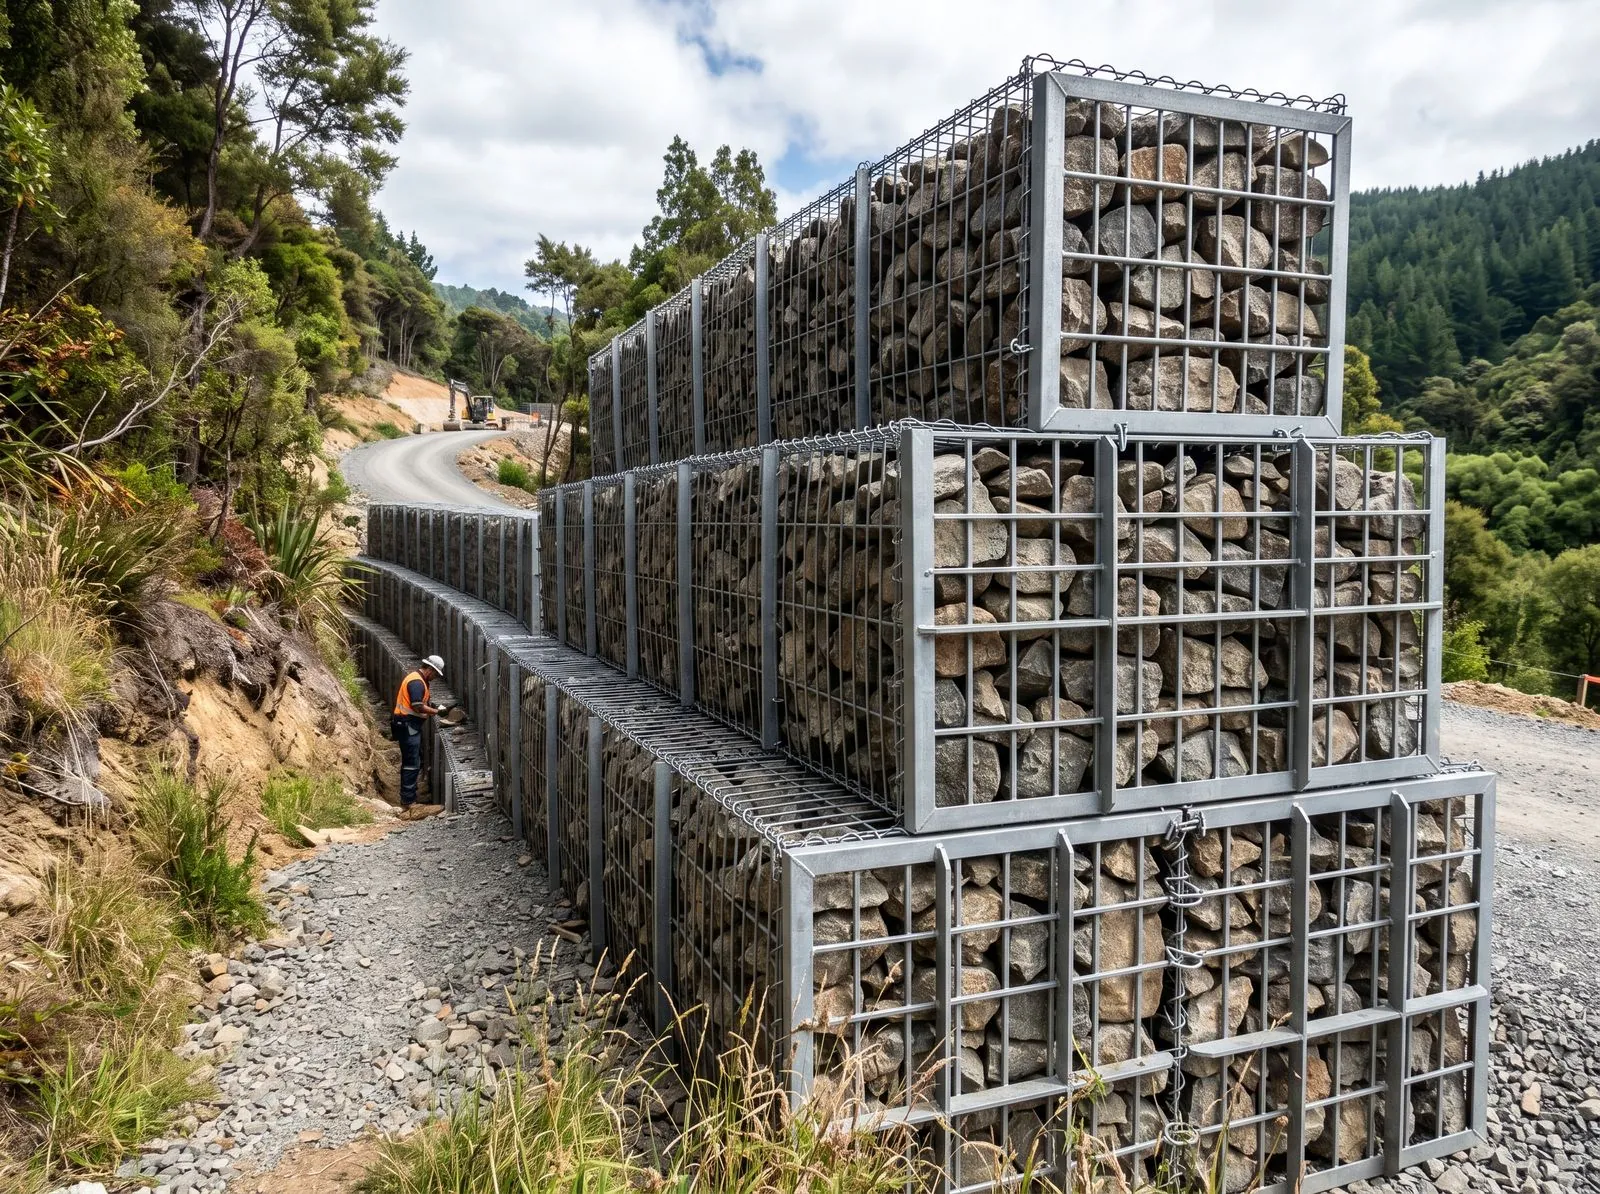
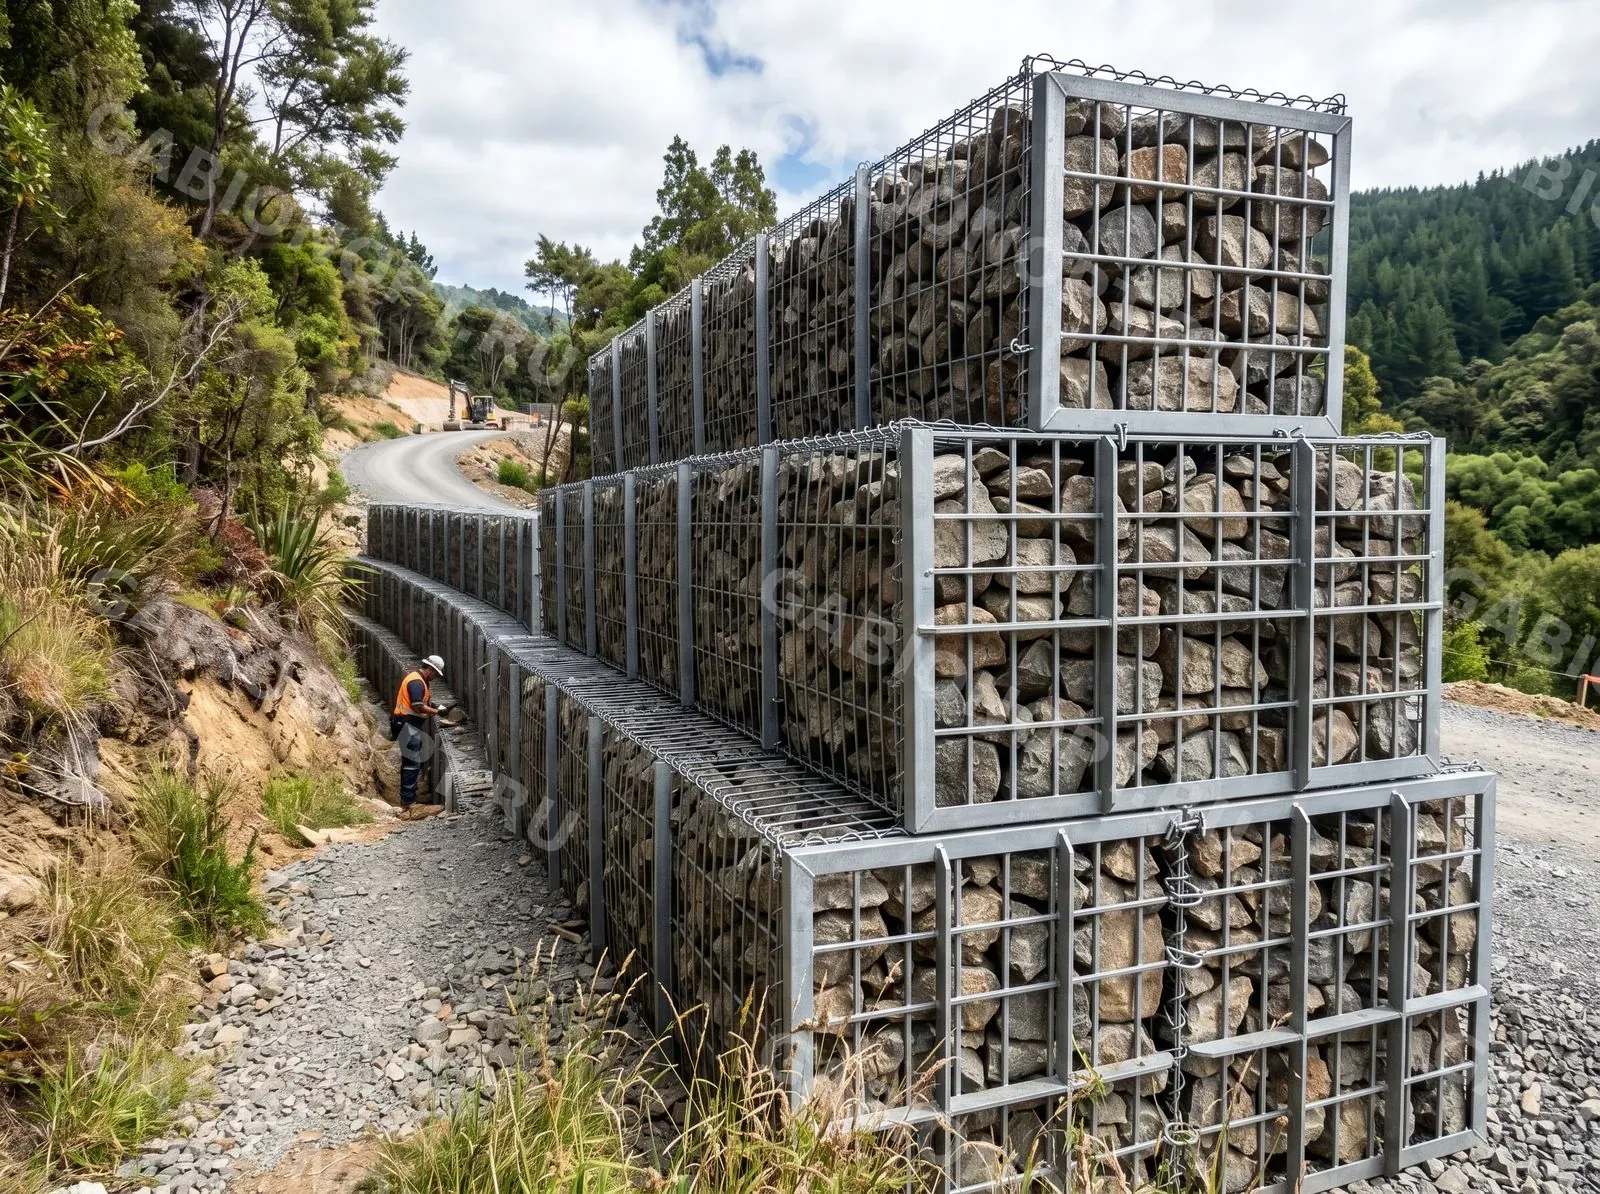
Add GABIONOPT.RU watermark to catalog reference photos, fix missing GOST badge on trosy PDP

diff --git a/assets/catalog.js b/assets/catalog.js
@@ -467,9 +467,9 @@
     "matrasno-tyufyachnye": { src: "images/gabion-matrasno-tyufyachnye.webp", alt: "Матрацно-тюфячный габион — пустой каркас" }
   };
   var SETKA_REF_PHOTOS = {
-    "ot-bpla": { src: "images/antidrone-net.jpg", alt: "Защитная сетка от БПЛА над габионной конструкцией" },
-    "protivokamnepadnye": { src: "images/rockfall-mesh.jpg", alt: "Противокамнепадный барьер из стального троса и сетки на склоне" },
-    "dvojnogo-krucheniya": { src: "images/mesh-detail.jpg", alt: "Сетка двойного кручения, крупный план плетения" }
+    "ot-bpla": { src: "images/setka-ot-bpla-wm.webp", alt: "Защитная сетка от БПЛА над габионной конструкцией" },
+    "protivokamnepadnye": { src: "images/setka-protivokamnepadnye-wm.webp", alt: "Противокамнепадный барьер из стального троса и сетки на склоне" },
+    "dvojnogo-krucheniya": { src: "images/setka-dvojnogo-krucheniya-wm.webp", alt: "Сетка двойного кручения, крупный план плетения" }
   };
   function refPhoto(p) {
     if (p.group === "trosy") return ROPE_DIAGRAMS[p.subcat] || null;
@@ -528,7 +528,9 @@
         '<div class="pdp-info">' +
           '<div class="sku">Артикул ' + p.sku + " · " + (p.subcat_label || "") + "</div>" +
           "<h2>" + p.name + "</h2>" +
-          (p.specs && p.specs["Соответствие стандарту"] ? '<div class="gost">Соответствует ' + p.specs["Соответствие стандарту"] + "</div>" : "") +
+          (p.specs && p.specs["Соответствие стандарту"]
+            ? '<div class="gost">Соответствует ' + p.specs["Соответствие стандарту"] + "</div>"
+            : (gost ? '<div class="gost">Соответствует ГОСТ ' + gost[0] + "</div>" : "")) +
           '<p class="desc">' + p.description + "</p>" +
           (specRows ? '<table class="spectable">' + specRows + "</table>" : "") +
           gostHtml +

diff --git a/catalog.html b/catalog.html
@@ -19,7 +19,7 @@
 <link rel="preconnect" href="https://fonts.googleapis.com">
 <link rel="preconnect" href="https://fonts.gstatic.com" crossorigin>
 <link href="https://fonts.googleapis.com/css2?family=Golos+Text:wght@400;500;600;700;800&family=JetBrains+Mono:wght@400;500;600&display=swap" rel="stylesheet">
-<link rel="stylesheet" href="assets/style.css?v=34">
+<link rel="stylesheet" href="assets/style.css?v=35">
 <script type="application/ld+json">
 {
   "@context": "https://schema.org",
@@ -305,8 +305,8 @@
   <button type="button" class="btn btn-primary btn-sm" id="cookieAccept">Понятно</button>
 </div>
 
-<script src="assets/nav.js?v=34"></script>
-<script src="assets/catalog.js?v=34"></script>
+<script src="assets/nav.js?v=35"></script>
+<script src="assets/catalog.js?v=35"></script>
 <script>
 (function () {
   "use strict";

diff --git a/primenenie.html b/primenenie.html
@@ -18,7 +18,7 @@
 <link rel="preconnect" href="https://fonts.googleapis.com">
 <link rel="preconnect" href="https://fonts.gstatic.com" crossorigin>
 <link href="https://fonts.googleapis.com/css2?family=Golos+Text:wght@400;500;600;700;800&family=JetBrains+Mono:wght@400;500;600&display=swap" rel="stylesheet">
-<link rel="stylesheet" href="assets/style.css?v=34">
+<link rel="stylesheet" href="assets/style.css?v=35">
 <!-- Yandex.Metrika counter -->
 <script type="text/javascript">
     (function(m,e,t,r,i,k,a){
@@ -356,7 +356,7 @@
   <button type="button" class="btn btn-primary btn-sm" id="cookieAccept">Понятно</button>
 </div>
 
-<script src="assets/nav.js?v=34"></script>
+<script src="assets/nav.js?v=35"></script>
 <script>
 (function () {
   "use strict";

diff --git a/production.html b/production.html
@@ -18,7 +18,7 @@
 <link rel="preconnect" href="https://fonts.googleapis.com">
 <link rel="preconnect" href="https://fonts.gstatic.com" crossorigin>
 <link href="https://fonts.googleapis.com/css2?family=Golos+Text:wght@400;500;600;700;800&family=JetBrains+Mono:wght@400;500;600&display=swap" rel="stylesheet">
-<link rel="stylesheet" href="assets/style.css?v=34">
+<link rel="stylesheet" href="assets/style.css?v=35">
 <!-- Yandex.Metrika counter -->
 <script type="text/javascript">
     (function(m,e,t,r,i,k,a){
@@ -275,7 +275,7 @@
   <button type="button" class="btn btn-primary btn-sm" id="cookieAccept">Понятно</button>
 </div>
 
-<script src="assets/nav.js?v=34"></script>
+<script src="assets/nav.js?v=35"></script>
 <script>
 (function () {
   "use strict";

diff --git a/index.html b/index.html
@@ -22,7 +22,7 @@
 <link rel="preconnect" href="https://fonts.googleapis.com">
 <link rel="preconnect" href="https://fonts.gstatic.com" crossorigin>
 <link href="https://fonts.googleapis.com/css2?family=Golos+Text:wght@400;500;600;700;800&family=JetBrains+Mono:wght@400;500;600&display=swap" rel="stylesheet">
-<link rel="stylesheet" href="assets/style.css?v=34">
+<link rel="stylesheet" href="assets/style.css?v=35">
 
 <script type="application/ld+json">
 {
@@ -440,7 +440,7 @@
   <button type="button" class="btn btn-primary btn-sm" id="cookieAccept">Понятно</button>
 </div>
 
-<script src="assets/nav.js?v=34"></script>
+<script src="assets/nav.js?v=35"></script>
 <script>
   var allSelectOptions = [];
 

diff --git a/privacy-policy.html b/privacy-policy.html
@@ -10,7 +10,7 @@
 <link rel="preconnect" href="https://fonts.googleapis.com">
 <link rel="preconnect" href="https://fonts.gstatic.com" crossorigin>
 <link href="https://fonts.googleapis.com/css2?family=Golos+Text:wght@400;500;600;700;800&family=JetBrains+Mono:wght@400;500;600&display=swap" rel="stylesheet">
-<link rel="stylesheet" href="assets/style.css?v=34">
+<link rel="stylesheet" href="assets/style.css?v=35">
 </head>
 <body>
 
@@ -92,6 +92,6 @@
   </div>
 </footer>
 
-<script src="assets/nav.js?v=34"></script>
+<script src="assets/nav.js?v=35"></script>
 </body>
 </html>

diff --git a/rekvizity.html b/rekvizity.html
@@ -10,7 +10,7 @@
 <link rel="preconnect" href="https://fonts.googleapis.com">
 <link rel="preconnect" href="https://fonts.gstatic.com" crossorigin>
 <link href="https://fonts.googleapis.com/css2?family=Golos+Text:wght@400;500;600;700;800&family=JetBrains+Mono:wght@400;500;600&display=swap" rel="stylesheet">
-<link rel="stylesheet" href="assets/style.css?v=34">
+<link rel="stylesheet" href="assets/style.css?v=35">
 </head>
 <body>
 
@@ -83,6 +83,6 @@
   </div>
 </footer>
 
-<script src="assets/nav.js?v=34"></script>
+<script src="assets/nav.js?v=35"></script>
 </body>
 </html>
